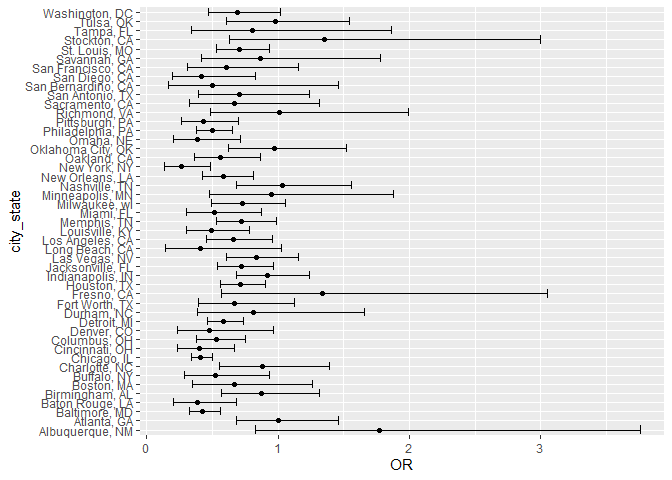
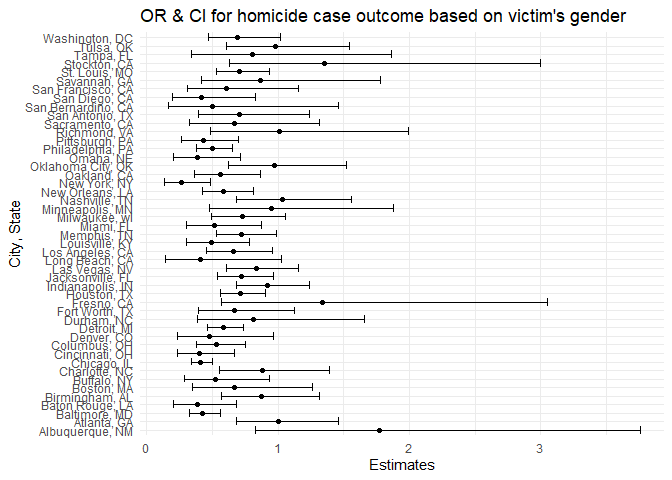
Working on cross-validation

diff --git a/hw6_p8105.md b/hw6_p8105.md
@@ -158,11 +158,17 @@ knitr::kable(homicide_stat)
 ``` r
 homicide_stat = homicide_stat %>% 
   arrange(OR) %>% 
-  mutate(city_state = fct_reorder(city_state, OR))
+  mutate(city_state = fct_inorder(city_state))
 
 ggplot(homicide_stat, aes(x = OR, y = city_state)) + 
     geom_point() +
-    geom_errorbar(aes(xmin = conf_low2, xmax = conf_high2))
+    geom_errorbar(aes(xmin = conf_low2, xmax = conf_high2)) +
+    labs(
+    x = "Estimates",
+    y = "City, State",
+    title = "OR & CI for homicide case outcome based on victim's gender"
+  ) +
+  theme_minimal()
 ```
 
 ![](hw6_p8105_files/figure-gfm/homicide%20plot-1.png)<!-- -->
@@ -170,20 +176,21 @@ ggplot(homicide_stat, aes(x = OR, y = city_state)) +
 ``` r
 #need to exp the CI too otherwise the OR falls outside of the CI range (bc the CI was still the original CI log)
 #fct_reorder not working
+#ggplot still change my df into list
 ```
 
 Comment on the plot
 
 ## Problem 3
 
-3a. Load and clean the data for regression analysis (i.e. convert
-numeric to factor where appropriate, check for missing data, etc.).
+**3a. Load and clean the data for regression analysis**
 
 ``` r
-birthweight_masterdata = homicide = read.csv("./data/birthweight.csv") %>% 
+bwt_masterdata = homicide = read.csv("./data/birthweight.csv") %>% 
   mutate(
     babysex = as.factor(babysex),
-    malform = as.factor(malform)
+    malform = as.factor(malform),
+    smoken = as.integer(round(smoken))
   ) %>% 
   drop_na()
 
@@ -192,14 +199,54 @@ birthweight_masterdata = homicide = read.csv("./data/birthweight.csv") %>%
 #fincome, momage, race,  parity, pnumlbw, pnumsga, smoken are all non-normal distribution
 ```
 
-3b. Propose a regression model for birthweight. This model may be based
-on a hypothesized structure for the factors that underly birthweight, on
-a data-driven model-building process, or a combination of the two.
-Describe your modeling process and show a plot of model residuals
-against fitted values – use add_predictions and add_residuals in making
-this plot.
+**3b. Propose a regression model for birthweight. Describe your modeling
+process and show a plot of model residuals against fitted values – use
+add_predictions and add_residuals in making this plot.**
 
-3c. Compare your model to two others:
+``` r
+#loading packages
+library(modelr)
+
+#model building
+fit = lm(bwt ~ smoken + wtgain, data = bwt_masterdata) 
+
+tidy_lm = fit%>% 
+  broom::tidy()
+
+#add residuals
+modelr::add_residuals(bwt_masterdata, fit)
+
+#add predictions
+modelr::add_predictions(bwt_masterdata, fit)
+
+#fit cannot be used for modelr if I already tidy them, so I created new df (tidy_lm) to tidy the data
+
+#plot
+bwt_model = bwt_masterdata %>% 
+  modelr::add_residuals(fit) %>% 
+  modelr::add_predictions(fit)
+
+ggplot(bwt_model, aes(x = pred, y = resid)) +
+  geom_point(alpha=0.5) +
+  labs(
+    x = "Fitted Values",
+    y = "Residuals",
+    title = "Model Residuals vs. Fitted Values"
+  ) +
+  theme_minimal()
+```
+
+![](hw6_p8105_files/figure-gfm/bwt%20model-1.png)<!-- -->
+
+The model hypothesized that baby’s birthweight is influenced by mother’s
+weightgain and smoking habit during the pregnancy. There are strong
+evidence that smoking during pregnancy negatively affects birthweight.
+Meanwhile, while there are evidence of mother’s weight gain positively
+affects birthweight, this effect apparently dependent on the timing of
+the weight gain, with mothers who gain weight during the 2nd trimester
+seems to positively affects birthweight the most.
+
+**3c. Compare your model** to two others:
 
 - One using length at birth and gestational age as predictors (main
   effects only)
@@ -208,3 +255,88 @@ this plot.
 
 Make this comparison in terms of the cross-validated prediction error;
 use crossv_mc and functions in purrr as appropriate.
+
+**Model 2**
+
+``` r
+#load packages
+library(mgcv)
+```
+
+    ## Loading required package: nlme
+
+    ## 
+    ## Attaching package: 'nlme'
+
+    ## The following object is masked from 'package:dplyr':
+    ## 
+    ##     collapse
+
+    ## This is mgcv 1.9-1. For overview type 'help("mgcv-package")'.
+
+``` r
+#fit as the test data
+#length and GA as predictor = test data
+fit2 = lm(bwt ~ blength + gaweeks, data = bwt_masterdata)
+
+tidy_lm2 = fit2%>% 
+  broom::tidy()
+
+bwt_model2 = bwt_masterdata %>% 
+  modelr::add_residuals(fit2) %>% 
+  modelr::add_predictions(fit2)
+
+#the website say "It’s worth noting, though, that if all the models you want to fit use lm, you can skip this." and since my model both use lm, do I skip them?
+
+ggplot(bwt_model2, aes(x = pred, y = resid)) +
+  geom_point(alpha=0.5) +
+  labs(
+    x = "Fitted Values",
+    y = "Residuals",
+    title = "Model Residuals vs. Fitted Values"
+  ) +
+  theme_minimal()
+```
+
+![](hw6_p8105_files/figure-gfm/model%202-1.png)<!-- -->
+
+``` r
+#fit2 is much different from fit in distribution
+```
+
+**Model 3**
+
+``` r
+#head circumference, length, sex
+```
+
+**comparison**
+
+``` r
+cv_df1 = crossv_mc(bwt_masterdata, n = 100, test = 0.2) %>% 
+  mutate(
+    train = map(train, as_tibble),
+    test = map(test, as_tibble))
+
+cv_df1 = cv_df1 %>% 
+  mutate(
+    fit_mod  = map(train, \(df) lm(bwt ~ smoken + wtgain, data = df)),
+    fit2_mod  = map(train, \(df) lm(bwt ~ blength + gaweeks, data = df))
+  ) %>% 
+  mutate(
+    rmse_fit = map2_dbl(fit_mod, test, \(mod, df) rmse(model = mod, data = df)),
+    rmse_fit2 = map2_dbl(fit2_mod, test, \(mod, df) rmse(model = mod, data = df))
+  )
+
+cv_df1 %>%  
+  select(starts_with("rmse")) %>%  
+  pivot_longer(
+    everything(),
+    names_to = "model", 
+    values_to = "rmse",
+    names_prefix = "rmse_") |> 
+  mutate(model = fct_inorder(model)) |> 
+  ggplot(aes(x = model, y = rmse)) + geom_violin()
+```
+
+![](hw6_p8105_files/figure-gfm/cross_validation-1.png)<!-- -->
